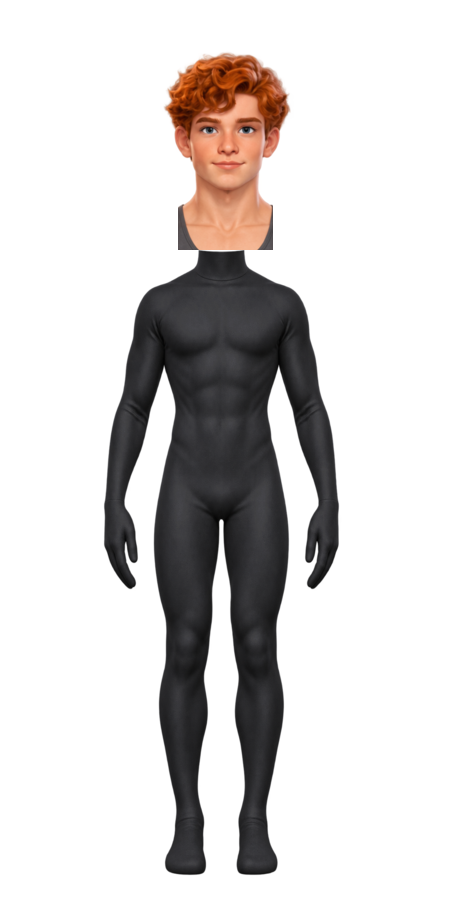
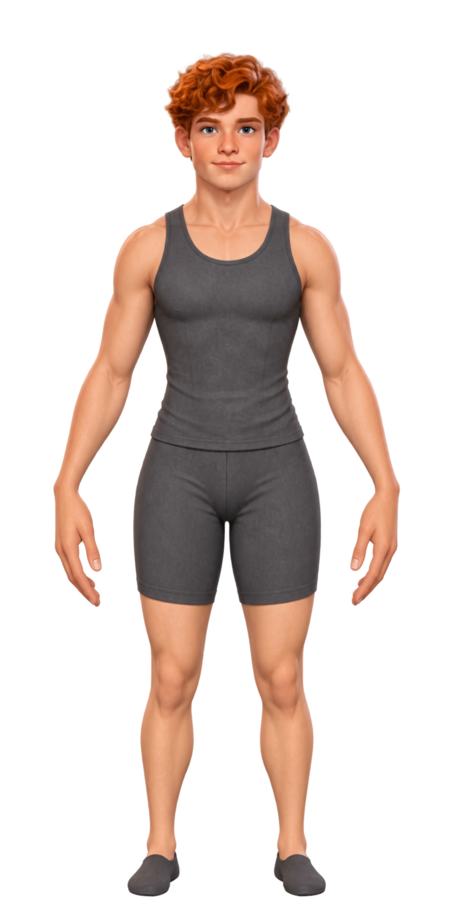
Replace loose wardrobe with complete outfits

diff --git a/html/verbia.html b/html/verbia.html
@@ -889,7 +889,7 @@
         <li><span class="direction-icon">★</span><div><b>Find bonus words</b><p>Valid words outside the stage list earn extra points and fly into Bonus Discoveries.</p></div></li>
         <li><span class="direction-icon">💡</span><div><b>Hints and daily rewards</b><p>Three hints refresh daily. The Daily Orbit dart board can award more hints or discovery points.</p></div></li>
         <li><span class="direction-icon">↻</span><div><b>Shuffle and revisit</b><p>Shuffle letters for a fresh view, or use the left arrow to revisit up to five incomplete cleared boards.</p></div></li>
-        <li><span class="direction-icon">🛍</span><div><b>Customize your explorer</b><p>Spend discovery points in the Explorer Shop, then equip realistic clothing, accessories, and pets in the Inventory Showroom.</p></div></li>
+            <li><span class="direction-icon">🛍</span><div><b>Customize your explorer</b><p>Spend discovery points in the Explorer Shop, then equip complete outfits, accessories, and pets in the Inventory Showroom.</p></div></li>
       </ol>
     </section>
   </div>
@@ -987,14 +987,11 @@
         {id:"mateo",name:"Mateo",portraitAtlas:"hispanic",portraitIndex:1,bodySrc:"../images/verbia/bodies-standard/mateo.png",bodyIndex:1,cost:400}
       ];
       const shopItems = [
-        {id:"standard-field-jacket",name:"Standard Field Jacket",type:"shirt",atlas:"standard",atlasIndex:0,cost:0,standard:true},
-        {id:"standard-field-pants",name:"Standard Field Trousers",type:"pants",atlas:"standard",atlasIndex:1,cost:0,standard:true},
-        {id:"standard-field-boots",name:"Standard Field Boots",type:"shoes",atlas:"standard",atlasIndex:2,cost:0,standard:true},
+        {id:"standard-field-outfit",name:"Standard Field Outfit",type:"outfit",storeGroup:"complete-outfits",atlas:"complete",assetKey:"field-outfit",cost:0,standard:true},
+        {id:"aurora-outfit",name:"Aurora Space Outfit",type:"outfit",storeGroup:"complete-outfits",atlas:"complete",assetKey:"aurora-outfit",cost:720},
+        {id:"executive-outfit",name:"Solar Executive Outfit",type:"outfit",storeGroup:"complete-outfits",atlas:"complete",assetKey:"executive-outfit",cost:640},
         {id:"comet-cap",name:"Comet Cap",type:"hat",storeGroup:"mens-head",atlas:"wearable",atlasIndex:0,cost:180},
         {id:"star-glasses",name:"Star Glasses",type:"glasses",storeGroup:"shared-head",atlas:"wearable",atlasIndex:1,cost:140},
-        {id:"nova-shirt",name:"Nova Jacket",type:"shirt",storeGroup:"womens-tops",atlas:"wearable",atlasIndex:2,cost:240},
-        {id:"orbit-pants",name:"Orbit Pants",type:"pants",storeGroup:"bottoms",atlas:"wearable",atlasIndex:3,cost:280},
-        {id:"moon-boots",name:"Moon Boots",type:"shoes",storeGroup:"footwear",atlas:"wearable",atlasIndex:4,cost:320},
         {id:"pet-dog",name:"Orbit Dog",type:"pet",atlas:"pet",atlasIndex:0,cost:420},
         {id:"pet-cat",name:"Nova Cat",type:"pet",atlas:"pet",atlasIndex:1,cost:450},
         {id:"pet-iguana",name:"Solar Iguana",type:"pet",atlas:"pet",atlasIndex:2,cost:500},
@@ -1004,22 +1001,7 @@
         {id:"holo-angles",name:"Cyan Holo Angles",type:"glasses",storeGroup:"mens-head",atlas:"wardrobe2",atlasCol:1,atlasRow:0,cost:290},
         {id:"starlight-crown",name:"Starlight Crown",type:"hat",storeGroup:"womens-head",atlas:"wardrobe2",atlasCol:2,atlasRow:0,cost:440},
         {id:"cosmic-hood",name:"Cosmic Cable Hood",type:"hat",storeGroup:"womens-head",atlas:"wardrobe2",atlasCol:3,atlasRow:0,cost:330},
-        {id:"star-fedora",name:"Midnight Star Fedora",type:"hat",storeGroup:"mens-head",atlas:"wardrobe2",atlasCol:4,atlasRow:0,cost:300},
-        {id:"eva-suit",name:"Aurora Space Suit",type:"shirt",storeGroup:"mens-tops",atlas:"wardrobe2",atlasCol:0,atlasRow:1,cost:720},
-        {id:"midnight-suit",name:"Midnight Business Suit",type:"shirt",storeGroup:"mens-tops",atlas:"wardrobe2",atlasCol:1,atlasRow:1,cost:610},
-        {id:"violet-coat",name:"Violet Rift Coat",type:"shirt",storeGroup:"womens-tops",atlas:"wardrobe2",atlasCol:2,atlasRow:1,cost:560},
-        {id:"neon-jacket",name:"Neon Street Jacket",type:"shirt",storeGroup:"womens-tops",atlas:"wardrobe2",atlasCol:3,atlasRow:1,cost:520},
-        {id:"burgundy-suit",name:"Solar Executive Suit",type:"shirt",storeGroup:"mens-tops",atlas:"wardrobe2",atlasCol:4,atlasRow:1,cost:640},
-        {id:"aurora-boots",name:"Aurora Space Boots",type:"shoes",storeGroup:"footwear",atlas:"wardrobe2",atlasCol:0,atlasRow:2,cost:390},
-        {id:"formal-shoes",name:"Orbit Formal Shoes",type:"shoes",storeGroup:"footwear",atlas:"wardrobe2",atlasCol:1,atlasRow:2,cost:310},
-        {id:"rift-platforms",name:"Rift Platform Boots",type:"shoes",storeGroup:"footwear",atlas:"wardrobe2",atlasCol:2,atlasRow:2,cost:420},
-        {id:"neon-high-tops",name:"Neon High-Tops",type:"shoes",storeGroup:"footwear",atlas:"wardrobe2",atlasCol:3,atlasRow:2,cost:360},
-        {id:"lunar-field-boots",name:"Lunar Field Boots",type:"shoes",storeGroup:"footwear",atlas:"wardrobe2",atlasCol:4,atlasRow:2,cost:380},
-        {id:"midnight-trousers",name:"Midnight Suit Trousers",type:"pants",storeGroup:"bottoms",atlas:"bottoms",atlasIndex:0,cost:390},
-        {id:"burgundy-trousers",name:"Solar Executive Trousers",type:"pants",storeGroup:"bottoms",atlas:"bottoms",atlasIndex:1,cost:410},
-        {id:"cyber-cargos",name:"Neon Cyber Cargos",type:"pants",storeGroup:"bottoms",atlas:"bottoms",atlasIndex:2,cost:460},
-        {id:"rift-trousers",name:"Asymmetric Rift Pants",type:"pants",storeGroup:"bottoms",atlas:"bottoms",atlasIndex:3,cost:440},
-        {id:"cosmic-dress",name:"Constellation Evening Dress",type:"outfit",storeGroup:"womens-tops",atlas:"bottoms",atlasIndex:4,cost:780}
+        {id:"star-fedora",name:"Midnight Star Fedora",type:"hat",storeGroup:"mens-head",atlas:"wardrobe2",atlasCol:4,atlasRow:0,cost:300}
       ];
       const playfield = document.querySelector("#playfield");
       const letterNodes = document.querySelector("#letterNodes");
@@ -1414,7 +1396,7 @@
       }
 
       function freshProgress(profileCreated = false) {
-        return { profileCreated, currentLevel:1, highestLevel:1, boards:{}, levelBoards:{}, signatures:[], hintHistory:{}, points:0, hints:{date:todayKey(),count:3}, dailyRewardDate:"", inventory:{owned:["standard-field-jacket","standard-field-pants","standard-field-boots"],equipped:{shirt:"standard-field-jacket",pants:"standard-field-pants",shoes:"standard-field-boots"}}, wardrobeBaseVersion:1, unlockedAvatars:["rx7","nova"], seed:Math.floor(Math.random() * 2147483647) || 9173 };
+        return { profileCreated, currentLevel:1, highestLevel:1, boards:{}, levelBoards:{}, signatures:[], hintHistory:{}, points:0, hints:{date:todayKey(),count:3}, dailyRewardDate:"", inventory:{owned:["standard-field-outfit"],equipped:{outfit:"standard-field-outfit"}}, wardrobeBaseVersion:2, unlockedAvatars:["rx7","nova"], seed:Math.floor(Math.random() * 2147483647) || 9173 };
       }
 
       function letterCountForLevel(level) {
@@ -2000,14 +1982,16 @@
         progress.inventory ||= {owned:[],equipped:{}};
         if (!Array.isArray(progress.inventory.owned)) progress.inventory.owned = [];
         progress.inventory.equipped ||= {};
-        if ((progress.wardrobeBaseVersion || 0) < 1) {
-          ["standard-field-jacket","standard-field-pants","standard-field-boots"].forEach(id => {
-            if (!progress.inventory.owned.includes(id)) progress.inventory.owned.push(id);
+        if ((progress.wardrobeBaseVersion || 0) < 2) {
+          const currentIds = new Set(shopItems.map(item => item.id));
+          progress.inventory.owned = progress.inventory.owned.filter(id => currentIds.has(id));
+          if (!progress.inventory.owned.includes("standard-field-outfit")) progress.inventory.owned.push("standard-field-outfit");
+          ["shirt","pants","shoes"].forEach(type => { delete progress.inventory.equipped[type]; });
+          ["hat","glasses","pet"].forEach(type => {
+            if (!currentIds.has(progress.inventory.equipped[type])) delete progress.inventory.equipped[type];
           });
-          progress.inventory.equipped.shirt ||= "standard-field-jacket";
-          progress.inventory.equipped.pants ||= "standard-field-pants";
-          progress.inventory.equipped.shoes ||= "standard-field-boots";
-          progress.wardrobeBaseVersion = 1;
+          progress.inventory.equipped.outfit = "standard-field-outfit";
+          progress.wardrobeBaseVersion = 2;
         }
         if (!Array.isArray(progress.unlockedAvatars)) progress.unlockedAvatars = ["rx7","nova"];
         progress.unlockedAvatars = [...new Set(["rx7","nova",...progress.unlockedAvatars.filter(id => avatars.some(avatar => avatar.id === id))])];
@@ -2031,13 +2015,10 @@
         wardrobeStore.replaceChildren();
         companionStore.replaceChildren();
         const wardrobeGroups = [
-          ["womens-tops","Women's tops & dresses"],
-          ["mens-tops","Men's tops & suits"],
+          ["complete-outfits","Complete outfits"],
           ["womens-head","Women's headwear"],
           ["mens-head","Men's headwear"],
-          ["shared-head","Shared eyewear"],
-          ["bottoms","Pants & bottoms"],
-          ["footwear","Shoes & boots"]
+          ["shared-head","Shared eyewear"]
         ];
         const createStoreItemButton = item => {
           const owned = progress.inventory.owned.includes(item.id);
@@ -2056,7 +2037,7 @@
           return button;
         };
         wardrobeGroups.forEach(([groupId,groupLabel]) => {
-          const items = shopItems.filter(item => !item.standard && item.storeGroup === groupId);
+          const items = shopItems.filter(item => item.storeGroup === groupId);
           if (!items.length) return;
           const heading = document.createElement("h4");
           heading.className = "store-category-label";
@@ -2074,10 +2055,9 @@
           element.style.backgroundPosition = `${item.atlasIndex * 25}% 0`;
           return;
         }
-        const avatar = avatars.find(entry => entry.id === settings.avatar) || avatars[0];
-        const profile = avatarFitProfile(avatar);
+        const folder = item.atlas === "complete" ? "complete" : "universal";
         element.classList.add("fitted-item-art","square-cell");
-        element.style.backgroundImage = `url('../images/verbia/wardrobe-layers/${profile}/${fittedAssetKey(item)}.png')`;
+        element.style.backgroundImage = `url('../images/verbia/wardrobe-layers/${folder}/${fittedAssetKey(item)}.png')`;
         element.style.backgroundSize = "contain";
         element.style.backgroundPosition = "center bottom";
         element.style.backgroundRepeat = "no-repeat";
@@ -2091,11 +2071,16 @@
         return "0%";
       }
 
-      function applyExplorerBody(element, avatar) {
+      function explorerBodySource(avatar, headOnly = false) {
+        if (!avatar.bodySrc || !headOnly) return avatar.bodySrc;
+        return avatar.bodySrc.replace("/bodies-standard/", "/heads-standard/");
+      }
+
+      function applyExplorerBody(element, avatar, headOnly = false) {
         const bodyColumn = avatar.bodyIndex % 5;
         const bodyRow = Math.floor(avatar.bodyIndex / 5);
         if (avatar.bodySrc) {
-          element.style.backgroundImage = `url('${avatar.bodySrc}')`;
+          element.style.backgroundImage = `url('${explorerBodySource(avatar, headOnly)}')`;
           element.style.backgroundSize = "contain";
           element.style.backgroundPosition = "center bottom";
         } else if (avatar.bodyAtlas === "hispanic") {
@@ -2121,6 +2106,7 @@
       }
 
       function fittedAssetKey(item) {
+        if (item.assetKey) return item.assetKey;
         const index = item.atlas === "wardrobe2" ? item.atlasRow * 5 + item.atlasCol : item.atlasIndex;
         return `${item.atlas === "wearable" ? "wearable" : item.atlas}-${index}`;
       }
@@ -2130,7 +2116,7 @@
         const avatar = avatars.find(item => item.id === settings.avatar) || avatars[0];
         avatarBadge.dataset.fitProfile = avatarFitProfile(avatar);
         avatarBadge.style.setProperty("--fit-x", avatarFitOffset(avatar));
-        applyExplorerBody(gameAvatarBase, avatar);
+        applyExplorerBody(gameAvatarBase, avatar, Boolean(progress.inventory.equipped.outfit));
         renderEquippedLayers([[gameAvatarHat,"hat"],[gameAvatarGlasses,"glasses"],[gameAvatarShirt,"shirt"],[gameAvatarPants,"pants"],[gameAvatarOutfit,"outfit"],[gameAvatarShoes,"shoes"]]);
         avatarBadge.setAttribute("aria-label", `${avatar.name}, wearing the current showroom outfit. Open player and game menu`);
       }
@@ -2183,9 +2169,11 @@
         if (!progress.inventory.owned.includes(itemId)) return;
         const item = shopItems.find(entry => entry.id === itemId);
         if (!item) return;
-        if (item.type === "outfit") { progress.inventory.equipped.shirt = null; progress.inventory.equipped.pants = null; }
-        if (item.type === "shirt" || item.type === "pants") progress.inventory.equipped.outfit = null;
-        progress.inventory.equipped[item.type] = progress.inventory.equipped[item.type] === item.id ? null : item.id;
+        if (item.type === "outfit") {
+          progress.inventory.equipped.outfit = item.id;
+        } else {
+          progress.inventory.equipped[item.type] = progress.inventory.equipped[item.type] === item.id ? null : item.id;
+        }
         saveProgress();
         renderInventory();
         vibrate(18);
@@ -2197,9 +2185,9 @@
         const avatar = avatars.find(item => item.id === settings.avatar) || avatars[0];
         inventoryStage.dataset.fitProfile = avatarFitProfile(avatar);
         inventoryStage.style.setProperty("--fit-x", avatarFitOffset(avatar));
-        applyExplorerBody(inventoryPersona, avatar);
-        inventoryPersona.setAttribute("aria-label", `${avatar.name} full-body explorer`);
         const equipped = progress.inventory.equipped;
+        applyExplorerBody(inventoryPersona, avatar, Boolean(equipped.outfit));
+        inventoryPersona.setAttribute("aria-label", `${avatar.name} full-body explorer`);
         const pet = shopItems.find(item => item.id === equipped.pet);
         renderEquippedLayers([[personaHat,"hat"],[personaGlasses,"glasses"],[personaShirt,"shirt"],[personaPants,"pants"],[personaOutfit,"outfit"],[personaShoes,"shoes"]]);
         renderGameAvatar();
@@ -2227,7 +2215,7 @@
           const name = document.createElement("strong");
           name.textContent = item.name;
           const state = document.createElement("small");
-          state.textContent = equippedNow ? "Equipped · tap to remove" : "Tap to equip";
+          state.textContent = equippedNow ? (item.type === "outfit" ? "Equipped" : "Equipped · tap to remove") : "Tap to equip";
           button.append(preview,name,state);
           inventoryList.append(button);
         });
